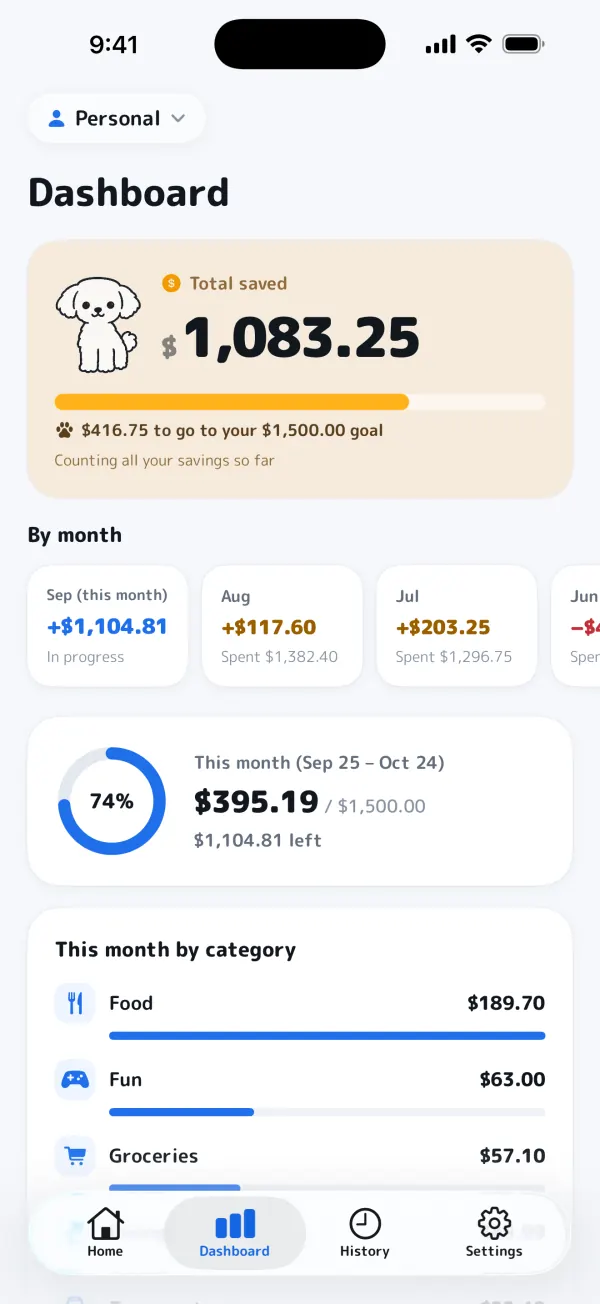
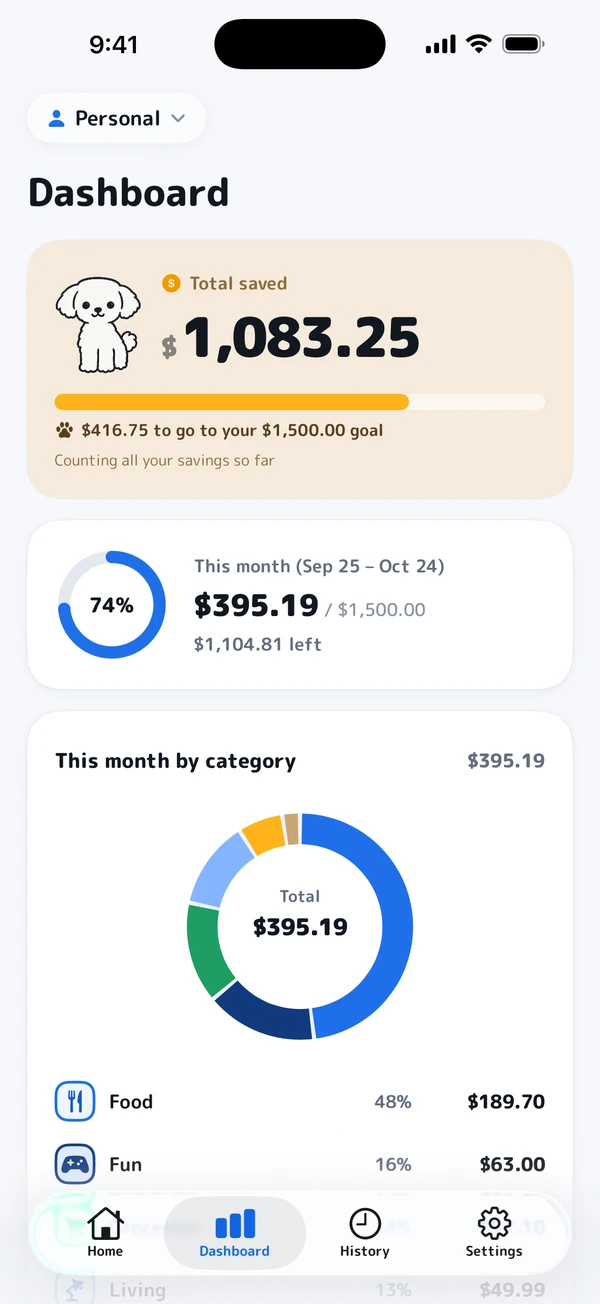
feat(alcoin): the dashboard image and text show the category chart and 期間で見る (2.1.0)

diff --git a/app/products/alcoin/_components/AlcoinLanding.tsx b/app/products/alcoin/_components/AlcoinLanding.tsx
@@ -65,7 +65,7 @@ const content = {
       {
         icon: PiggyBank,
         title: "Dashboard & savings",
-        body: "Spending by month and category, your total savings and progress toward a savings goal.",
+        body: "This month by category as a chart, any period at a glance (last 3 months, this year, the past 12 months), your total savings and progress toward a savings goal.",
       },
       {
         icon: CalendarDays,
@@ -88,7 +88,7 @@ const content = {
       { src: "/alcoin-celebration-en.webp", alt: "A coin flying to the dog right after recording an expense" },
       {
         src: "/alcoin-dashboard-en.webp",
-        alt: "Dashboard with total savings, a savings goal and spending by category",
+        alt: "Dashboard with total savings, a savings goal, this month's budget and a chart of spending by category",
       },
       { src: "/alcoin-history-calendar-en.webp", alt: "History shown as a calendar with daily totals" },
     ],
@@ -322,7 +322,7 @@ const content = {
       {
         icon: PiggyBank,
         title: "ダッシュボードと貯金",
-        body: "月ごと・カテゴリ別の支出に、これまでの貯金と貯金目標までの道のり。",
+        body: "今月のカテゴリ別を円グラフで。過去3か月・今年・過去1年など、好きな期間の支出もまとめて見られます。これまでの貯金と貯金目標までの道のりも。",
       },
       {
         icon: CalendarDays,
@@ -343,7 +343,7 @@ const content = {
     screenshotsTitle: "アプリの画面",
     screenshots: [
       { src: "/alcoin-celebration-ja.webp", alt: "記録した直後、コインが犬のところへ飛んでいく画面" },
-      { src: "/alcoin-dashboard-ja.webp", alt: "これまでの貯金、貯金目標、カテゴリ別の支出を表示するダッシュボード" },
+      { src: "/alcoin-dashboard-ja.webp", alt: "これまでの貯金、貯金目標、今月の予算、カテゴリ別の円グラフを表示するダッシュボード" },
       { src: "/alcoin-history-calendar-ja.webp", alt: "日ごとの合計を表示するカレンダー表示の履歴" },
     ],
     sharedTitle: "家族や仲間と、共有家計簿",
